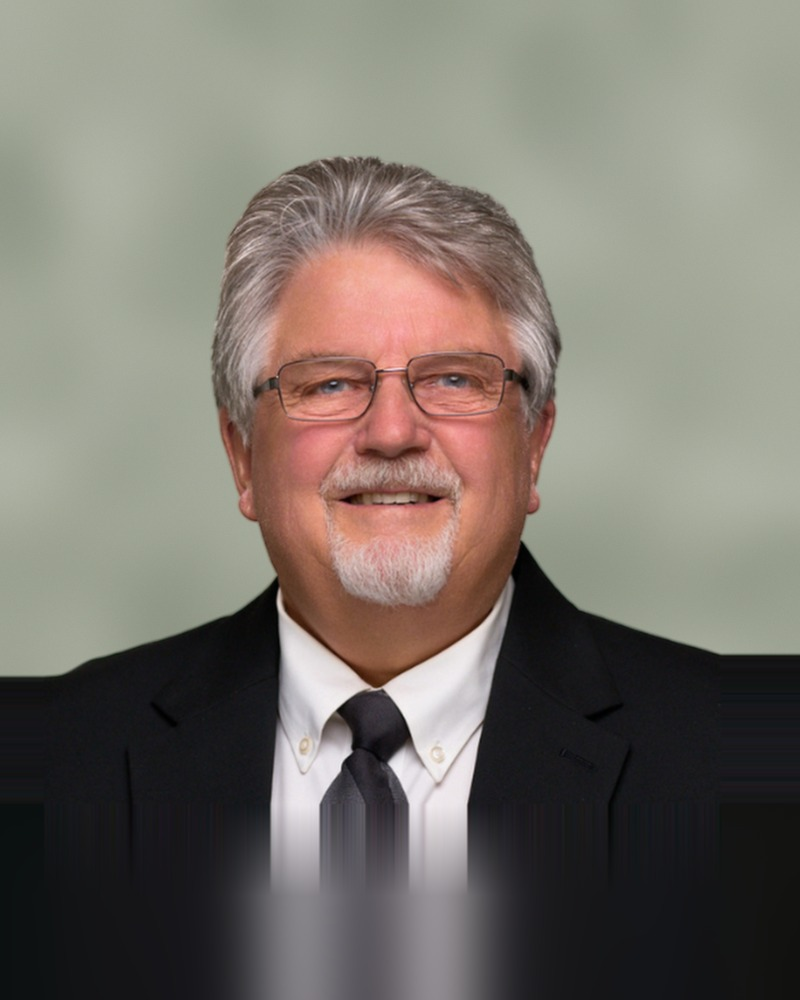
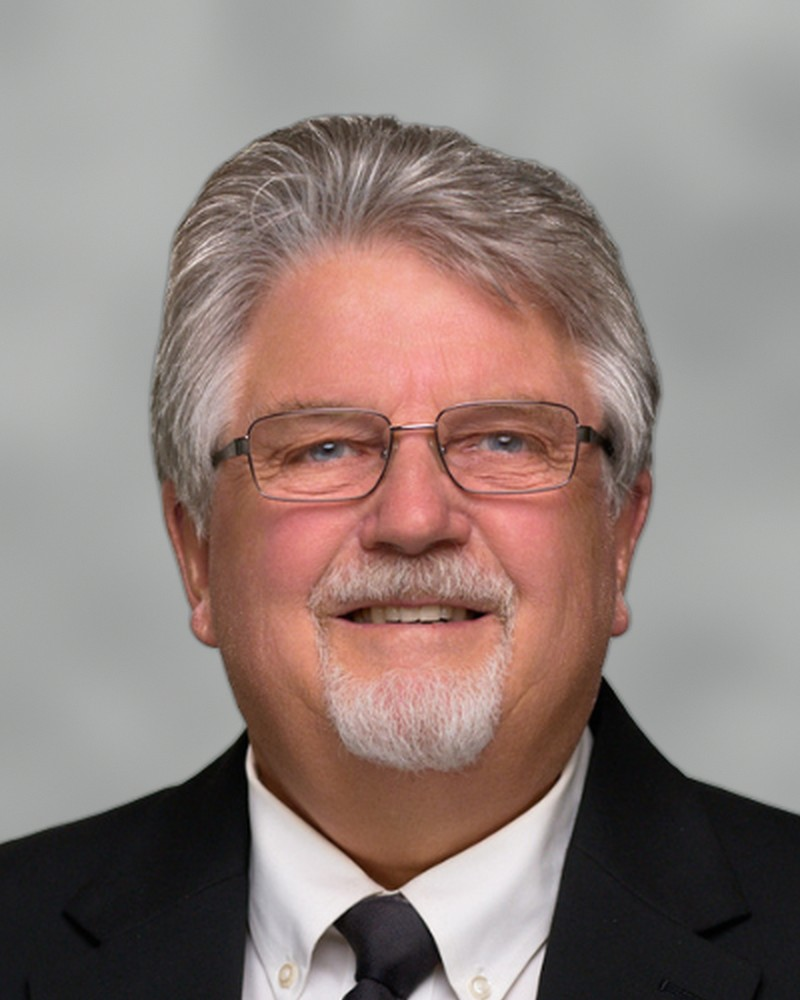
Add Panasiuk's photo and recut Wasaga Beach headshots. (#69)
Use the supplied portrait for Tiny deputy mayor Rob Panasiuk, replace the five Wasaga official crops with the recut jpg files, and overwrite Belanger, Marr, and Broughton so the circular frames keep the top of each head.

diff --git a/elections-2026/wasaga-beach/index.html b/elections-2026/wasaga-beach/index.html
@@ -69,7 +69,7 @@ height="0" width="0" style="display:none;visibility:hidden"></iframe></noscript>
         
       </span>
     </a><a class="el-person" href="/elections-2026/wasaga-beach/brian-smith/">
-      <img class="el-avatar" src="/assets/img/elections-2026/wasaga-beach-smith-official.jpg" alt="Brian Smith" width="600" height="600" loading="lazy">
+      <img class="el-avatar" src="/assets/img/elections-2026/wasaga-beach-smith.jpg" alt="Brian Smith" width="600" height="600" loading="lazy">
       <span class="el-person-copy">
         <strong>Brian Smith</strong>
         <span class="el-role">Mayor</span>
@@ -90,7 +90,7 @@ height="0" width="0" style="display:none;visibility:hidden"></iframe></noscript>
         
       </span>
     </a><a class="el-person" href="/elections-2026/wasaga-beach/tanya-snell/">
-      <img class="el-avatar" src="/assets/img/elections-2026/wasaga-beach-snell-official.jpg" alt="Tanya Snell" width="600" height="600" loading="lazy">
+      <img class="el-avatar" src="/assets/img/elections-2026/wasaga-beach-snell.jpg" alt="Tanya Snell" width="600" height="600" loading="lazy">
       <span class="el-person-copy">
         <strong>Tanya Snell</strong>
         <span class="el-role">Deputy Mayor</span>
@@ -118,7 +118,7 @@ height="0" width="0" style="display:none;visibility:hidden"></iframe></noscript>
         
       </span>
     </a><a class="el-person" href="/elections-2026/wasaga-beach/faye-ego/">
-      <img class="el-avatar" src="/assets/img/elections-2026/wasaga-beach-ego-official.jpg" alt="Faye Ego" width="600" height="600" loading="lazy">
+      <img class="el-avatar" src="/assets/img/elections-2026/wasaga-beach-ego.jpg" alt="Faye Ego" width="600" height="600" loading="lazy">
       <span class="el-person-copy">
         <strong>Faye Ego</strong>
         <span class="el-role">Councillor</span>
@@ -174,14 +174,14 @@ height="0" width="0" style="display:none;visibility:hidden"></iframe></noscript>
         
       </span>
     </a><a class="el-person" href="/elections-2026/wasaga-beach/ellen-timms/">
-      <img class="el-avatar" src="/assets/img/elections-2026/wasaga-beach-timms-official.jpg" alt="Ellen Timms" width="600" height="600" loading="lazy">
+      <img class="el-avatar" src="/assets/img/elections-2026/wasaga-beach-timms.jpg" alt="Ellen Timms" width="600" height="600" loading="lazy">
       <span class="el-person-copy">
         <strong>Ellen Timms</strong>
         <span class="el-role">Councillor</span>
         
       </span>
     </a><a class="el-person" href="/elections-2026/wasaga-beach/richard-white/">
-      <img class="el-avatar" src="/assets/img/elections-2026/wasaga-beach-white-official.jpg" alt="Richard White" width="600" height="600" loading="lazy">
+      <img class="el-avatar" src="/assets/img/elections-2026/wasaga-beach-white.jpg" alt="Richard White" width="600" height="600" loading="lazy">
       <span class="el-person-copy">
         <strong>Richard White</strong>
         <span class="el-role">Councillor</span>

diff --git a/elections-2026/tiny/rob-panasiuk/index.html b/elections-2026/tiny/rob-panasiuk/index.html
@@ -22,13 +22,13 @@ j=d.createElement(s),dl=l!='dataLayer'?'&l='+l:'';j.async=true;j.src=
 <meta property="og:url" content="https://jonathanwallace.ca/elections-2026/tiny/rob-panasiuk/">
 <meta property="og:title" content="Rob Panasiuk, Deputy Mayor, Tiny | North Simcoe Votes 2026">
 <meta property="og:description" content="An immediate review of major capital projects, outstanding litigation, senior staff agreements and major contracts and financing">
-<meta property="og:image" content="https://jonathanwallace.ca/assets/img/elections-2026/silhouette.png">
+<meta property="og:image" content="https://jonathanwallace.ca/assets/img/elections-2026/tiny-panasiuk.jpg">
 <meta property="og:locale" content="en_CA">
 <meta property="og:site_name" content="Jonathan Wallace, Your Georgian Bay Specialist">
 <meta name="twitter:card" content="summary_large_image">
 <meta name="twitter:title" content="Rob Panasiuk, Deputy Mayor, Tiny | North Simcoe Votes 2026">
 <meta name="twitter:description" content="An immediate review of major capital projects, outstanding litigation, senior staff agreements and major contracts and financing">
-<meta name="twitter:image" content="https://jonathanwallace.ca/assets/img/elections-2026/silhouette.png">
+<meta name="twitter:image" content="https://jonathanwallace.ca/assets/img/elections-2026/tiny-panasiuk.jpg">
 <link rel="preconnect" href="https://fonts.googleapis.com">
 <link rel="preconnect" href="https://fonts.gstatic.com" crossorigin>
 <link href="https://fonts.googleapis.com/css2?family=Playfair+Display:wght@400;500;600;700&amp;display=swap" rel="stylesheet">
@@ -53,7 +53,7 @@ height="0" width="0" style="display:none;visibility:hidden"></iframe></noscript>
 <main class="el">
   <div class="el-wrap el-profile">
     <p class="el-crumbs"><a href="/blog/north-simcoe-votes-2026/">North Simcoe Votes 2026</a> <span>/</span> <a href="/elections-2026/tiny/">Tiny</a></p>
-    <img class="el-avatar el-avatar-lg" src="/assets/img/elections-2026/silhouette.png" alt="No photo on file for Rob Panasiuk" width="600" height="600">
+    <img class="el-avatar el-avatar-lg" src="/assets/img/elections-2026/tiny-panasiuk.jpg" alt="Rob Panasiuk" width="600" height="600">
     <h1>Rob Panasiuk</h1>
     <p class="el-role">Deputy Mayor </p>
     <section class="el-block"><h2>Priorities</h2><ol class="el-points"><li>An immediate review of major capital projects, outstanding litigation, senior staff agreements and major contracts and financing</li><li>Repeal the short-term rental and shoreline by-laws in favour of industry self-regulation, enforcement of existing rules and a stewardship approach</li><li>Replace the Citizens&#x27; Code of Conduct with a Citizens&#x27; Bill of Rights</li><li>Phones at the township office answered by a live person, a service dashboard and annual budget surveys</li><li>Will not sell public beaches (other than the Axler property) or borrow more without consulting voters</li></ol></section>

diff --git a/elections-2026/wasaga-beach/tanya-snell/index.html b/elections-2026/wasaga-beach/tanya-snell/index.html
@@ -22,13 +22,13 @@ j=d.createElement(s),dl=l!='dataLayer'?'&l='+l:'';j.async=true;j.src=
 <meta property="og:url" content="https://jonathanwallace.ca/elections-2026/wasaga-beach/tanya-snell/">
 <meta property="og:title" content="Tanya Snell, Deputy Mayor, Wasaga Beach | North Simcoe Votes 2026">
 <meta property="og:description" content="Bring Service Canada, ServiceOntario and County of Simcoe service offices to Wasaga Beach">
-<meta property="og:image" content="https://jonathanwallace.ca/assets/img/elections-2026/wasaga-beach-snell-official.jpg">
+<meta property="og:image" content="https://jonathanwallace.ca/assets/img/elections-2026/wasaga-beach-snell.jpg">
 <meta property="og:locale" content="en_CA">
 <meta property="og:site_name" content="Jonathan Wallace, Your Georgian Bay Specialist">
 <meta name="twitter:card" content="summary_large_image">
 <meta name="twitter:title" content="Tanya Snell, Deputy Mayor, Wasaga Beach | North Simcoe Votes 2026">
 <meta name="twitter:description" content="Bring Service Canada, ServiceOntario and County of Simcoe service offices to Wasaga Beach">
-<meta name="twitter:image" content="https://jonathanwallace.ca/assets/img/elections-2026/wasaga-beach-snell-official.jpg">
+<meta name="twitter:image" content="https://jonathanwallace.ca/assets/img/elections-2026/wasaga-beach-snell.jpg">
 <link rel="preconnect" href="https://fonts.googleapis.com">
 <link rel="preconnect" href="https://fonts.gstatic.com" crossorigin>
 <link href="https://fonts.googleapis.com/css2?family=Playfair+Display:wght@400;500;600;700&amp;display=swap" rel="stylesheet">
@@ -53,7 +53,7 @@ height="0" width="0" style="display:none;visibility:hidden"></iframe></noscript>
 <main class="el">
   <div class="el-wrap el-profile">
     <p class="el-crumbs"><a href="/blog/north-simcoe-votes-2026/">North Simcoe Votes 2026</a> <span>/</span> <a href="/elections-2026/wasaga-beach/">Wasaga Beach</a></p>
-    <img class="el-avatar el-avatar-lg" src="/assets/img/elections-2026/wasaga-beach-snell-official.jpg" alt="Tanya Snell" width="600" height="600">
+    <img class="el-avatar el-avatar-lg" src="/assets/img/elections-2026/wasaga-beach-snell.jpg" alt="Tanya Snell" width="600" height="600">
     <h1>Tanya Snell</h1>
     <p class="el-role">Deputy Mayor </p>
     <section class="el-block"><h2>Priorities</h2><ol class="el-points"><li>Bring Service Canada, ServiceOntario and County of Simcoe service offices to Wasaga Beach</li><li>Attract two major retailers plus new local retailers and restaurants</li><li>Expand Mosley Street</li><li>Add more tourism and beach attractions</li><li>Affordable housing; she cites 145 affordable units planned for Zoo Park Road</li></ol></section>

diff --git a/elections-2026/wasaga-beach/brian-smith/index.html b/elections-2026/wasaga-beach/brian-smith/index.html
@@ -22,13 +22,13 @@ j=d.createElement(s),dl=l!='dataLayer'?'&l='+l:'';j.async=true;j.src=
 <meta property="og:url" content="https://jonathanwallace.ca/elections-2026/wasaga-beach/brian-smith/">
 <meta property="og:title" content="Brian Smith, Mayor, Wasaga Beach | North Simcoe Votes 2026">
 <meta property="og:description" content="Bring Service Canada, ServiceOntario and County of Simcoe service offices to Wasaga Beach">
-<meta property="og:image" content="https://jonathanwallace.ca/assets/img/elections-2026/wasaga-beach-smith-official.jpg">
+<meta property="og:image" content="https://jonathanwallace.ca/assets/img/elections-2026/wasaga-beach-smith.jpg">
 <meta property="og:locale" content="en_CA">
 <meta property="og:site_name" content="Jonathan Wallace, Your Georgian Bay Specialist">
 <meta name="twitter:card" content="summary_large_image">
 <meta name="twitter:title" content="Brian Smith, Mayor, Wasaga Beach | North Simcoe Votes 2026">
 <meta name="twitter:description" content="Bring Service Canada, ServiceOntario and County of Simcoe service offices to Wasaga Beach">
-<meta name="twitter:image" content="https://jonathanwallace.ca/assets/img/elections-2026/wasaga-beach-smith-official.jpg">
+<meta name="twitter:image" content="https://jonathanwallace.ca/assets/img/elections-2026/wasaga-beach-smith.jpg">
 <link rel="preconnect" href="https://fonts.googleapis.com">
 <link rel="preconnect" href="https://fonts.gstatic.com" crossorigin>
 <link href="https://fonts.googleapis.com/css2?family=Playfair+Display:wght@400;500;600;700&amp;display=swap" rel="stylesheet">
@@ -53,7 +53,7 @@ height="0" width="0" style="display:none;visibility:hidden"></iframe></noscript>
 <main class="el">
   <div class="el-wrap el-profile">
     <p class="el-crumbs"><a href="/blog/north-simcoe-votes-2026/">North Simcoe Votes 2026</a> <span>/</span> <a href="/elections-2026/wasaga-beach/">Wasaga Beach</a></p>
-    <img class="el-avatar el-avatar-lg" src="/assets/img/elections-2026/wasaga-beach-smith-official.jpg" alt="Brian Smith" width="600" height="600">
+    <img class="el-avatar el-avatar-lg" src="/assets/img/elections-2026/wasaga-beach-smith.jpg" alt="Brian Smith" width="600" height="600">
     <h1>Brian Smith</h1>
     <p class="el-role">Mayor </p>
     <section class="el-block"><h2>Priorities</h2><ol class="el-points"><li>Bring Service Canada, ServiceOntario and County of Simcoe service offices to Wasaga Beach</li><li>Attract two major retailers plus new local retailers and restaurants</li><li>Expand Mosley Street</li><li>Add more tourism and beach attractions</li><li>Continue the beachfront redevelopment (Destination Wasaga) and the investments already underway</li></ol></section>

diff --git a/elections-2026/wasaga-beach/richard-white/index.html b/elections-2026/wasaga-beach/richard-white/index.html
@@ -22,13 +22,13 @@ j=d.createElement(s),dl=l!='dataLayer'?'&l='+l:'';j.async=true;j.src=
 <meta property="og:url" content="https://jonathanwallace.ca/elections-2026/wasaga-beach/richard-white/">
 <meta property="og:title" content="Richard White, Councillor, Wasaga Beach | North Simcoe Votes 2026">
 <meta property="og:description" content="Safety and security on roadways and waterways">
-<meta property="og:image" content="https://jonathanwallace.ca/assets/img/elections-2026/wasaga-beach-white-official.jpg">
+<meta property="og:image" content="https://jonathanwallace.ca/assets/img/elections-2026/wasaga-beach-white.jpg">
 <meta property="og:locale" content="en_CA">
 <meta property="og:site_name" content="Jonathan Wallace, Your Georgian Bay Specialist">
 <meta name="twitter:card" content="summary_large_image">
 <meta name="twitter:title" content="Richard White, Councillor, Wasaga Beach | North Simcoe Votes 2026">
 <meta name="twitter:description" content="Safety and security on roadways and waterways">
-<meta name="twitter:image" content="https://jonathanwallace.ca/assets/img/elections-2026/wasaga-beach-white-official.jpg">
+<meta name="twitter:image" content="https://jonathanwallace.ca/assets/img/elections-2026/wasaga-beach-white.jpg">
 <link rel="preconnect" href="https://fonts.googleapis.com">
 <link rel="preconnect" href="https://fonts.gstatic.com" crossorigin>
 <link href="https://fonts.googleapis.com/css2?family=Playfair+Display:wght@400;500;600;700&amp;display=swap" rel="stylesheet">
@@ -53,7 +53,7 @@ height="0" width="0" style="display:none;visibility:hidden"></iframe></noscript>
 <main class="el">
   <div class="el-wrap el-profile">
     <p class="el-crumbs"><a href="/blog/north-simcoe-votes-2026/">North Simcoe Votes 2026</a> <span>/</span> <a href="/elections-2026/wasaga-beach/">Wasaga Beach</a></p>
-    <img class="el-avatar el-avatar-lg" src="/assets/img/elections-2026/wasaga-beach-white-official.jpg" alt="Richard White" width="600" height="600">
+    <img class="el-avatar el-avatar-lg" src="/assets/img/elections-2026/wasaga-beach-white.jpg" alt="Richard White" width="600" height="600">
     <h1>Richard White</h1>
     <p class="el-role">Councillor </p>
     <section class="el-block"><h2>Priorities</h2><ol class="el-points"><li>Safety and security on roadways and waterways</li><li>Finalize the investments secured this term in healthcare, education and infrastructure</li><li>Healthcare access, including prioritizing access to a walk-in clinic</li><li>Bring Service Canada, ServiceOntario and County of Simcoe service offices to Wasaga Beach</li><li>Attract two major retailers plus new local retailers and restaurants</li></ol></section>

diff --git a/elections-2026/wasaga-beach/ellen-timms/index.html b/elections-2026/wasaga-beach/ellen-timms/index.html
@@ -22,13 +22,13 @@ j=d.createElement(s),dl=l!='dataLayer'?'&l='+l:'';j.async=true;j.src=
 <meta property="og:url" content="https://jonathanwallace.ca/elections-2026/wasaga-beach/ellen-timms/">
 <meta property="og:title" content="Ellen Timms, Councillor, Wasaga Beach | North Simcoe Votes 2026">
 <meta property="og:description" content="Manage growth wisely so it strengthens the community, not strains it">
-<meta property="og:image" content="https://jonathanwallace.ca/assets/img/elections-2026/wasaga-beach-timms-official.jpg">
+<meta property="og:image" content="https://jonathanwallace.ca/assets/img/elections-2026/wasaga-beach-timms.jpg">
 <meta property="og:locale" content="en_CA">
 <meta property="og:site_name" content="Jonathan Wallace, Your Georgian Bay Specialist">
 <meta name="twitter:card" content="summary_large_image">
 <meta name="twitter:title" content="Ellen Timms, Councillor, Wasaga Beach | North Simcoe Votes 2026">
 <meta name="twitter:description" content="Manage growth wisely so it strengthens the community, not strains it">
-<meta name="twitter:image" content="https://jonathanwallace.ca/assets/img/elections-2026/wasaga-beach-timms-official.jpg">
+<meta name="twitter:image" content="https://jonathanwallace.ca/assets/img/elections-2026/wasaga-beach-timms.jpg">
 <link rel="preconnect" href="https://fonts.googleapis.com">
 <link rel="preconnect" href="https://fonts.gstatic.com" crossorigin>
 <link href="https://fonts.googleapis.com/css2?family=Playfair+Display:wght@400;500;600;700&amp;display=swap" rel="stylesheet">
@@ -53,7 +53,7 @@ height="0" width="0" style="display:none;visibility:hidden"></iframe></noscript>
 <main class="el">
   <div class="el-wrap el-profile">
     <p class="el-crumbs"><a href="/blog/north-simcoe-votes-2026/">North Simcoe Votes 2026</a> <span>/</span> <a href="/elections-2026/wasaga-beach/">Wasaga Beach</a></p>
-    <img class="el-avatar el-avatar-lg" src="/assets/img/elections-2026/wasaga-beach-timms-official.jpg" alt="Ellen Timms" width="600" height="600">
+    <img class="el-avatar el-avatar-lg" src="/assets/img/elections-2026/wasaga-beach-timms.jpg" alt="Ellen Timms" width="600" height="600">
     <h1>Ellen Timms</h1>
     <p class="el-role">Councillor </p>
     <section class="el-block"><h2>Priorities</h2><ol class="el-points"><li>Manage growth wisely so it strengthens the community, not strains it</li><li>Protect long-term financial stability</li><li>Listening first</li><li>Bring Service Canada, ServiceOntario and County of Simcoe service offices to Wasaga Beach</li><li>Attract two major retailers plus new local retailers and restaurants</li></ol></section>

diff --git a/elections-2026/wasaga-beach/faye-ego/index.html b/elections-2026/wasaga-beach/faye-ego/index.html
@@ -22,13 +22,13 @@ j=d.createElement(s),dl=l!='dataLayer'?'&l='+l:'';j.async=true;j.src=
 <meta property="og:url" content="https://jonathanwallace.ca/elections-2026/wasaga-beach/faye-ego/">
 <meta property="og:title" content="Faye Ego, Councillor, Wasaga Beach | North Simcoe Votes 2026">
 <meta property="og:description" content="Bring Service Canada, ServiceOntario and County of Simcoe service offices to Wasaga Beach">
-<meta property="og:image" content="https://jonathanwallace.ca/assets/img/elections-2026/wasaga-beach-ego-official.jpg">
+<meta property="og:image" content="https://jonathanwallace.ca/assets/img/elections-2026/wasaga-beach-ego.jpg">
 <meta property="og:locale" content="en_CA">
 <meta property="og:site_name" content="Jonathan Wallace, Your Georgian Bay Specialist">
 <meta name="twitter:card" content="summary_large_image">
 <meta name="twitter:title" content="Faye Ego, Councillor, Wasaga Beach | North Simcoe Votes 2026">
 <meta name="twitter:description" content="Bring Service Canada, ServiceOntario and County of Simcoe service offices to Wasaga Beach">
-<meta name="twitter:image" content="https://jonathanwallace.ca/assets/img/elections-2026/wasaga-beach-ego-official.jpg">
+<meta name="twitter:image" content="https://jonathanwallace.ca/assets/img/elections-2026/wasaga-beach-ego.jpg">
 <link rel="preconnect" href="https://fonts.googleapis.com">
 <link rel="preconnect" href="https://fonts.gstatic.com" crossorigin>
 <link href="https://fonts.googleapis.com/css2?family=Playfair+Display:wght@400;500;600;700&amp;display=swap" rel="stylesheet">
@@ -53,7 +53,7 @@ height="0" width="0" style="display:none;visibility:hidden"></iframe></noscript>
 <main class="el">
   <div class="el-wrap el-profile">
     <p class="el-crumbs"><a href="/blog/north-simcoe-votes-2026/">North Simcoe Votes 2026</a> <span>/</span> <a href="/elections-2026/wasaga-beach/">Wasaga Beach</a></p>
-    <img class="el-avatar el-avatar-lg" src="/assets/img/elections-2026/wasaga-beach-ego-official.jpg" alt="Faye Ego" width="600" height="600">
+    <img class="el-avatar el-avatar-lg" src="/assets/img/elections-2026/wasaga-beach-ego.jpg" alt="Faye Ego" width="600" height="600">
     <h1>Faye Ego</h1>
     <p class="el-role">Councillor </p>
     <section class="el-block"><h2>Priorities</h2><ol class="el-points"><li>Bring Service Canada, ServiceOntario and County of Simcoe service offices to Wasaga Beach</li><li>Attract two major retailers plus new local retailers and restaurants</li><li>Expand Mosley Street</li><li>Add more tourism and beach attractions</li></ol></section>

diff --git a/elections-2026/tiny/index.html b/elections-2026/tiny/index.html
@@ -90,7 +90,7 @@ height="0" width="0" style="display:none;visibility:hidden"></iframe></noscript>
         
       </span>
     </a><a class="el-person" href="/elections-2026/tiny/rob-panasiuk/">
-      <img class="el-avatar" src="/assets/img/elections-2026/silhouette.png" alt="No photo on file for Rob Panasiuk" width="600" height="600" loading="lazy">
+      <img class="el-avatar" src="/assets/img/elections-2026/tiny-panasiuk.jpg" alt="Rob Panasiuk" width="600" height="600" loading="lazy">
       <span class="el-person-copy">
         <strong>Rob Panasiuk</strong>
         <span class="el-role">Deputy Mayor</span>
